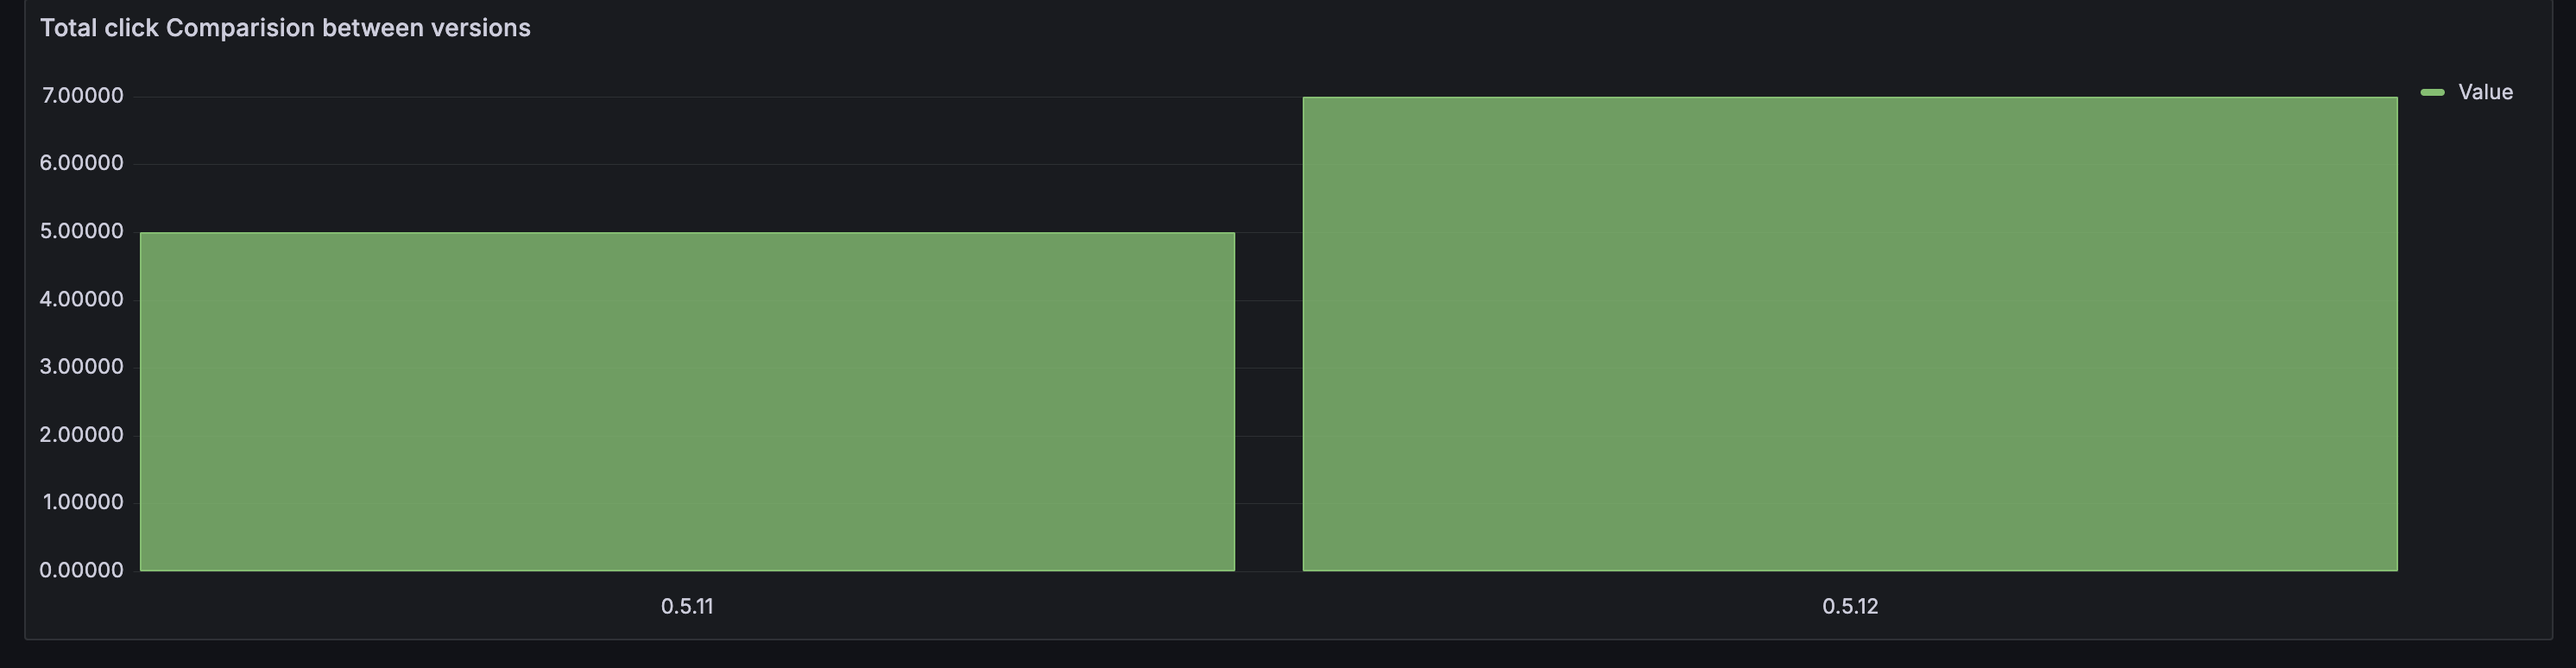
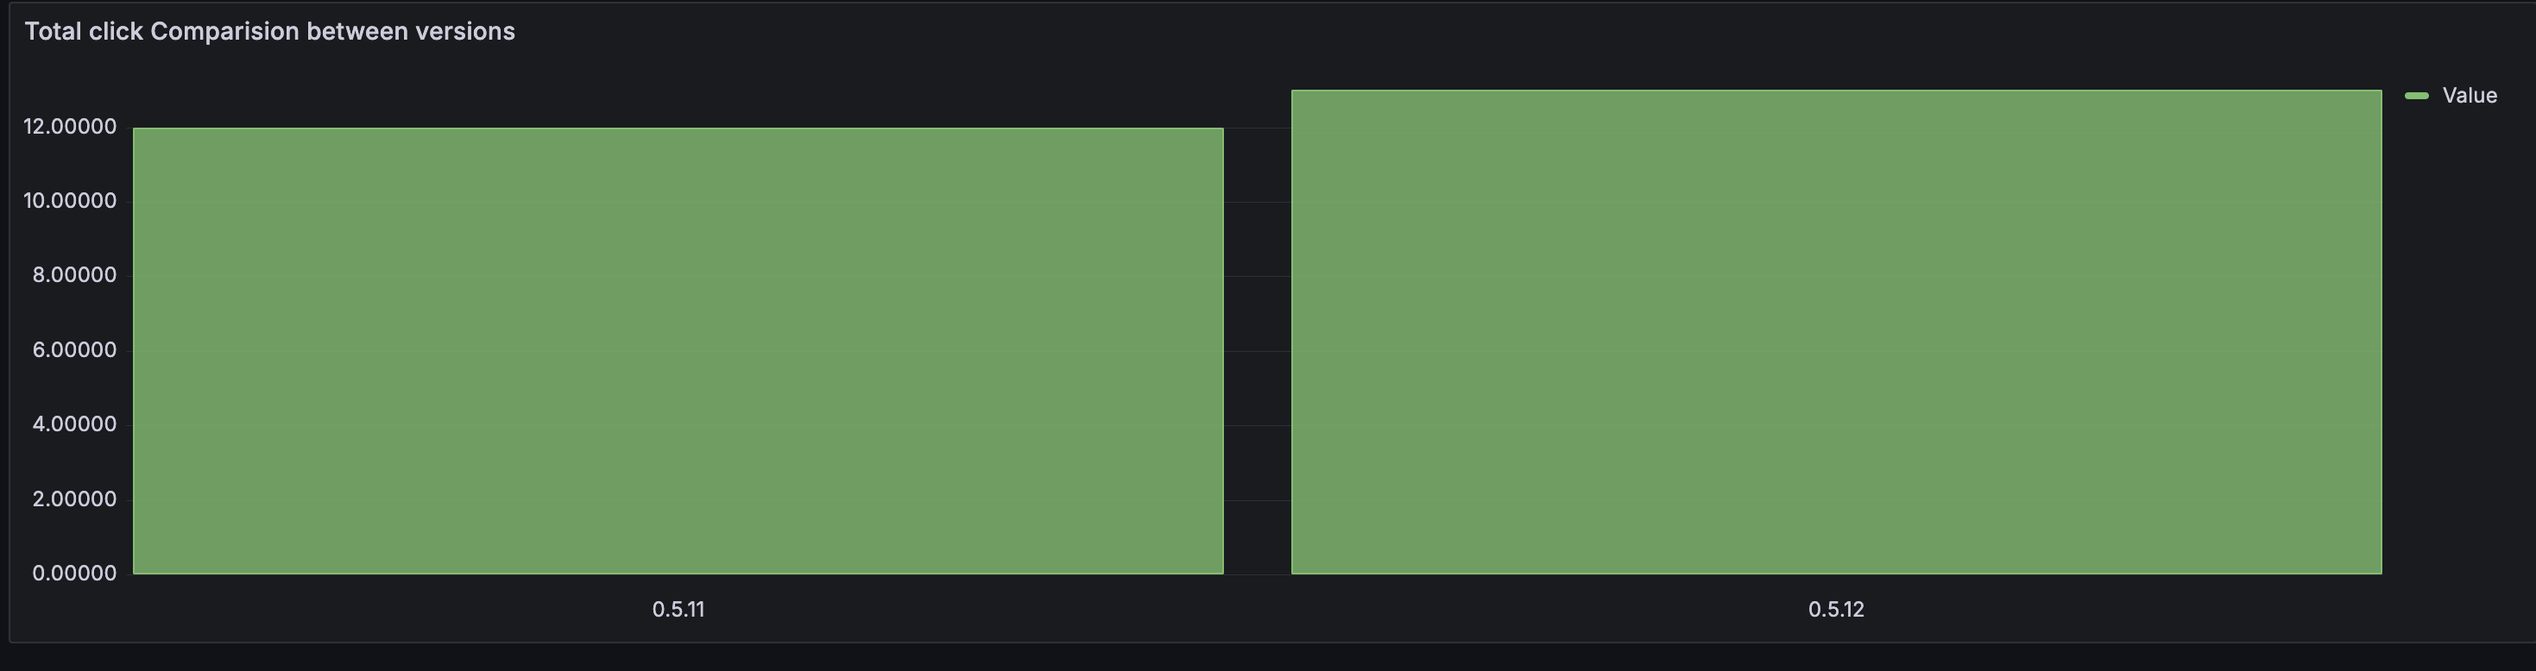
fix README

diff --git a/docs/continuous-experimentation.md b/docs/continuous-experimentation.md
@@ -15,15 +15,21 @@ Adding linkedin icon when hovering over user profile does not impact number of u
 Adding linkedin icon when hovering over user profile will increase number of user clicks to our member’s profile.
 
 ## Experiment
-The experiment we will do is have two version of our app v1 and v2. Version 1 (v1) is the base version with no LinkedIn icon. Version 2 (v2) introduces a LinkedIn icon that appears when hovering over a member's card, suggesting that the card is clickable and links to the member’s LinkedIn profile.d will direct to each members linkedin page. V1 does not have such feature.
+The experiment we will do is have two version of our app v1 and v2. 
+- **Version 1 (v1)** is the base version with no LinkedIn icon. 
+- **Version 2 (v2)** introduces a LinkedIn icon that appears when hovering over a member's card, suggesting that the card is clickable and links to the member’s LinkedIn profile. 
 
-To measure whether such change lead to difference in user behaviour we will use the **number of clicks to individual linkedin page** as metrics.
+For both version, clicking each member's card will direct to each members linkedin page. However, the key of this experiment is to evaluating whether having such icon can help user know that it directs to members linkedin page.
 
-An example of the feature we intorduced is shown below in the screenshot.
+To measure whether such change lead to difference in user behaviour we will use the **number of total clicks members individual linkedin page** as metrics.
+
+**V1**
+![Pie chart screenshot](imgs/Experiment-without-linkedin-example.png "Grouped bar chart")
+**V2**
 ![Pie chart screenshot](imgs/Experiment-example.png "Grouped bar chart")
 
 ## Instruction to reproduce
-Follow instructions on readme **README** to setup the app and open grafana. Then to mannually create statistics, simply go to the peoples page on our app and refresh while click on each members link. These clicks are reflected in by piechart at the buttom of the Grafana dashboard.
+Follow instructions on readme **README** to setup the app and open grafana. Then to mannually create statistics, simply go to the peoples page on our app and refresh while click on each members link. These clicks are reflected in the **Total Click Comparision between Versions** Bar chart.
 
 ## Result
 The following screenshot shows the Grafana dashboard panel specific for this experiment. It presents the comparision of number of clicks between the two version.
@@ -31,7 +37,7 @@ The following screenshot shows the Grafana dashboard panel specific for this exp
 
 
 ## Decision Process
-We compare the total clicks and found that the new version with the linkedin icon encourages user to make more clicks to individual profiles.
+We compare the total clicks and can only conclude if number of total clicks in V1 is 20% higher than V2. However, in our result, although V2, whcih is version 0.5.12 in this case, has a higher total click, it is not statistically significant enough for us to draw the conclusion. Thus, we cannot reject the null hypothesis.
 
 ## Conclusion
-According to our statistics, we can conclude that the feature we introduced, which is having an linkedin icon when user hover over individual card in our people's page, leads to more user clicking to access member's linkedin profile.
+According to our statistics, we can conclude that the feature we introduced, which is having an linkedin icon when user hover over individual card in our people's page does not lead to more user clicking to access member's linkedin profile.
